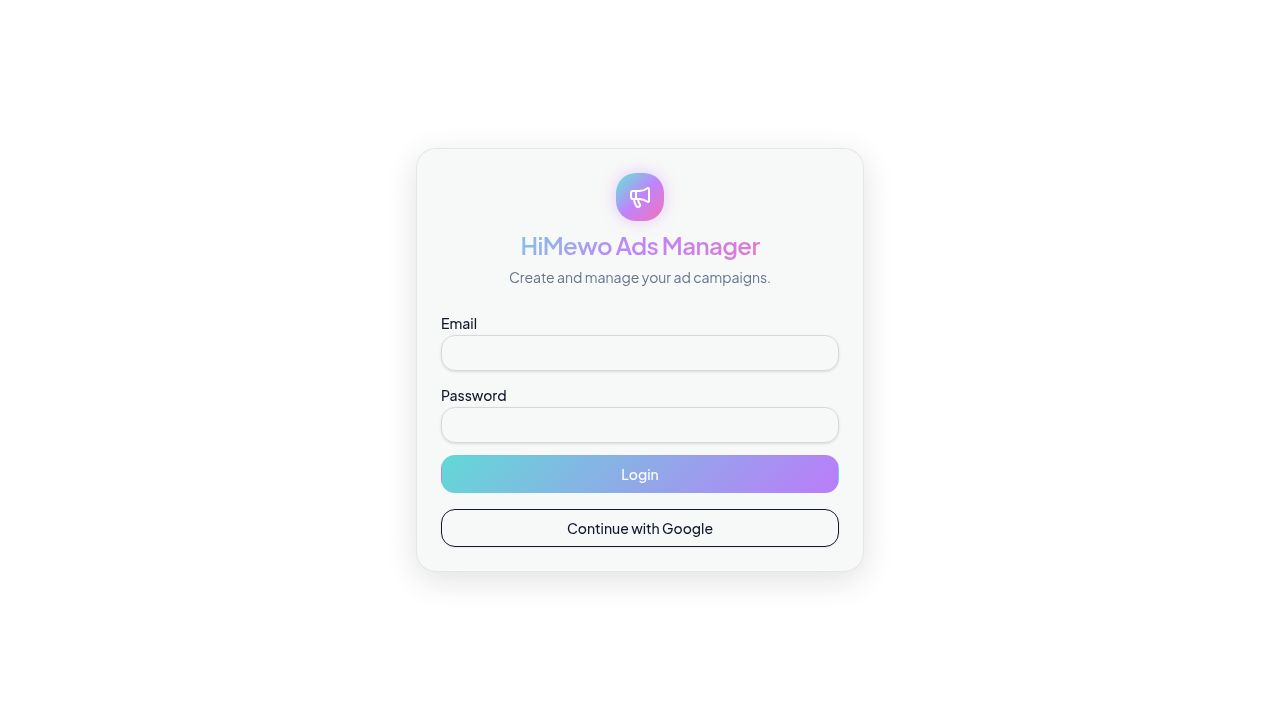
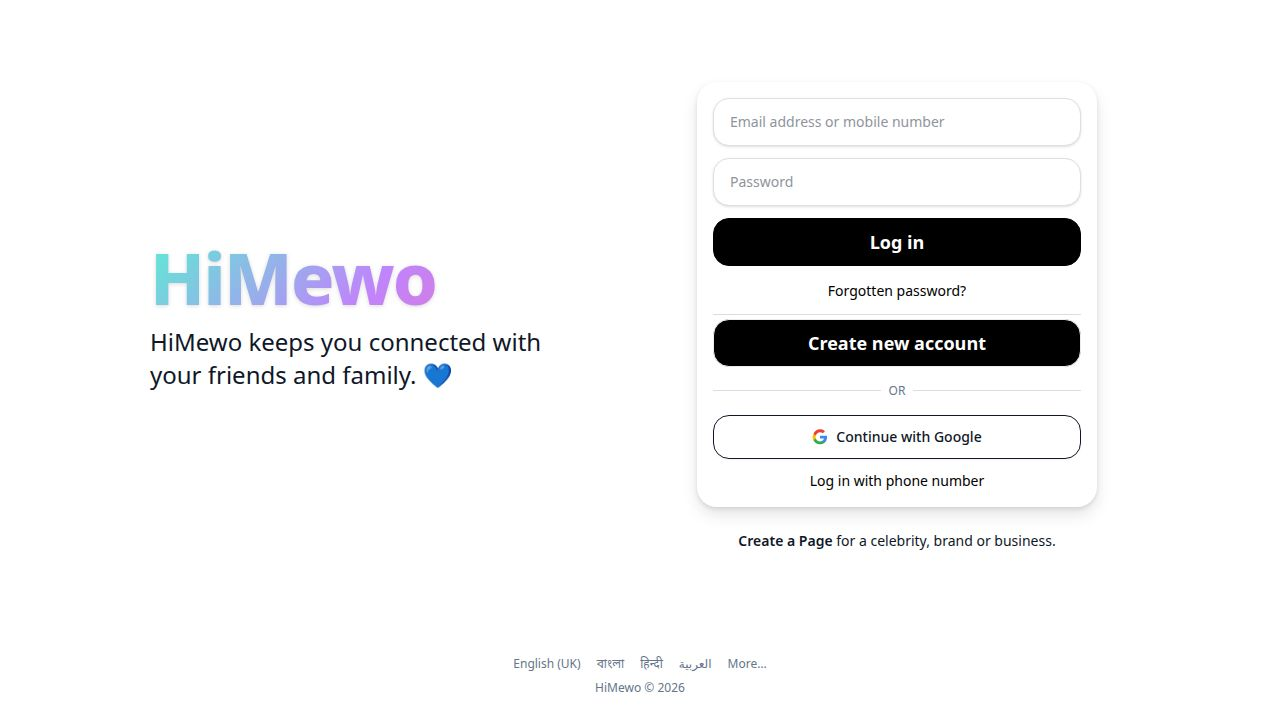
Update from Replit

diff --git a/artifacts/web/src/components/post-card.tsx b/artifacts/web/src/components/post-card.tsx
@@ -1,4 +1,4 @@
-import { useState } from "react";
+import { useEffect, useState } from "react";
 import { avatarSrc } from "@/lib/avatar";
 import { Link } from "wouter";
 import { formatDistanceToNow } from "date-fns";
@@ -87,6 +87,11 @@ export function PostCard({ post }: { post: Post }) {
   const [editing, setEditing] = useState(false);
   const [draft, setDraft] = useState(post.content);
   const [showBoost, setShowBoost] = useState(false);
+  // Optimistic reaction state — updates instantly on tap, server sync follows.
+  const [summary, setSummary] = useState(post.reactions);
+  useEffect(() => {
+    setSummary(post.reactions);
+  }, [post.reactions]);
 
   const isOwner = !!user && user.id === post.author.id;
   const canBoost = isOwner && post.privacy === "public";
@@ -119,10 +124,35 @@ export function PostCard({ post }: { post: Post }) {
   const savePending = saveItem.isPending || unsaveItem.isPending;
 
   const handleReaction = (type: ReactionType) => {
-    if (post.reactions.viewerReaction === type) {
-      removeReaction.mutate({ id: post.id }, { onSuccess: invalidate });
+    const prev = summary.viewerReaction as ReactionType | null | undefined;
+    if (prev === type) {
+      // Optimistically remove the reaction right away.
+      setSummary((s) => {
+        const byType = { ...s.byType };
+        if (byType[type] !== undefined) {
+          byType[type] = Math.max(0, (byType[type] ?? 1) - 1);
+          if (byType[type] === 0) delete byType[type];
+        }
+        return { ...s, total: Math.max(0, s.total - 1), byType, viewerReaction: null };
+      });
+      removeReaction.mutate({ id: post.id }, { onSettled: invalidate });
     } else {
-      setReaction.mutate({ id: post.id, data: { type } }, { onSuccess: invalidate });
+      // Optimistically set/switch the reaction right away.
+      setSummary((s) => {
+        const byType = { ...s.byType };
+        if (prev && byType[prev] !== undefined) {
+          byType[prev] = Math.max(0, (byType[prev] ?? 1) - 1);
+          if (byType[prev] === 0) delete byType[prev];
+        }
+        byType[type] = (byType[type] ?? 0) + 1;
+        return {
+          ...s,
+          total: prev ? s.total : s.total + 1,
+          byType,
+          viewerReaction: type,
+        };
+      });
+      setReaction.mutate({ id: post.id, data: { type } }, { onSettled: invalidate });
     }
   };
 
@@ -188,7 +218,7 @@ export function PostCard({ post }: { post: Post }) {
     }
   };
 
-  const viewerReaction = post.reactions.viewerReaction as ReactionType | null | undefined;
+  const viewerReaction = summary.viewerReaction as ReactionType | null | undefined;
   const meta = privacyMeta[post.privacy] ?? privacyMeta.public;
   const PrivacyIcon = meta.icon;
 
@@ -425,10 +455,10 @@ export function PostCard({ post }: { post: Post }) {
 
       <div className="flex justify-between items-center text-sm text-muted-foreground py-2 border-b border-border mb-1">
         <div className="flex items-center gap-1">
-          {post.reactionsEnabled && post.reactions.total > 0 && (
+          {post.reactionsEnabled && summary.total > 0 && (
             <>
               <div className="flex -space-x-1">
-                {Object.keys(post.reactions.byType).slice(0, 3).map((type) => {
+                {Object.keys(summary.byType).slice(0, 3).map((type) => {
                   const rType = type as ReactionType;
                   return (
                     <div key={type} className="w-5 h-5 rounded-full flex items-center justify-center bg-background border border-border text-[11px] leading-none">
@@ -437,7 +467,7 @@ export function PostCard({ post }: { post: Post }) {
                   );
                 })}
               </div>
-              <span className="ml-1">{post.reactions.total}</span>
+              <span className="ml-1">{summary.total}</span>
             </>
           )}
         </div>

diff --git a/artifacts/web/src/components/layout/main-layout.tsx b/artifacts/web/src/components/layout/main-layout.tsx
@@ -111,16 +111,16 @@ export function MainLayout({ children, rightSidebar }: { children: ReactNode; ri
       {/* Top Navbar */}
       <header className="sticky top-0 z-50 w-full aurora-glass-header">
         <div className="container mx-auto px-4 h-16 flex items-center justify-between">
-          <div className="flex items-center gap-4">
-            <Link href="/" className="text-2xl font-extrabold tracking-tight aurora-gradient-text">
-              HiMewo
-            </Link>
+          <div className="flex items-center gap-3">
             <MobileMenuButton
               navItems={navItems}
               shortcutItems={shortcutItems}
               user={user}
               onSignOut={signOut}
             />
+            <Link href="/" className="text-2xl font-extrabold tracking-tight aurora-gradient-text">
+              HiMewo
+            </Link>
 
             <form onSubmit={handleSearch} className="hidden md:flex relative">
               <Search className="absolute left-3 top-1/2 -translate-y-1/2 w-4 h-4 text-muted-foreground" />
@@ -168,7 +168,7 @@ export function MainLayout({ children, rightSidebar }: { children: ReactNode; ri
                 ) : null}
               </Button>
             </Link>
-            <Link href="/me">
+            <Link href="/me" className="hidden md:block">
               <img src={avatarSrc(user?.avatarUrl)} alt="" className="w-10 h-10 rounded-full border border-border cursor-pointer object-cover hover:ring-2 ring-primary transition-all" />
             </Link>
           </div>

diff --git a/artifacts/mobile/components/ReactionBar.tsx b/artifacts/mobile/components/ReactionBar.tsx
@@ -1,5 +1,6 @@
 import { useRef, useState } from "react";
 import {
+  Dimensions,
   Modal,
   Pressable,
   Text,
@@ -37,7 +38,11 @@ export function ReactionBar({
     const node = btnRef.current && findNodeHandle(btnRef.current);
     if (node) {
       UIManager.measureInWindow(node, (x, y) => {
-        setAnchor({ x: Math.max(12, x - 8), y: Math.max(80, y - 64) });
+        // Clamp so the picker never spills off either screen edge.
+        const screenW = Dimensions.get("window").width;
+        const pickerW = reactionOrder.length * 38 + 20;
+        const left = Math.min(Math.max(12, x - 8), Math.max(12, screenW - pickerW - 12));
+        setAnchor({ x: left, y: Math.max(80, y - 64) });
         setOpen(true);
       });
     } else {

diff --git a/artifacts/web/src/index.css b/artifacts/web/src/index.css
@@ -178,9 +178,8 @@
   }
 
   .aurora-glass-header {
-    background: var(--ap-header);
-    backdrop-filter: blur(24px);
-    -webkit-backdrop-filter: blur(24px);
+    /* Flat solid background — white in light mode, black in dark mode. */
+    background: hsl(var(--background));
     border-bottom: 1px solid var(--ap-border);
   }
 

diff --git a/artifacts/web/src/components/reaction-picker.tsx b/artifacts/web/src/components/reaction-picker.tsx
@@ -112,8 +112,10 @@ export function ReactionControl({ viewerReaction, onReact, count, size = "defaul
       {showPicker && (
         // Wrapper spans down to the button (pb-3) so there is NO empty gap between
         // the button and the pill — keeps hover continuous and clicks reliable.
+        // Anchored to the button's left edge (not centered) so the pill never
+        // spills off-screen when the Like button sits near the screen edge.
         <div
-          className="absolute bottom-full left-1/2 -translate-x-1/2 pb-3 z-40"
+          className="absolute bottom-full left-0 pb-3 z-40"
           onMouseEnter={open}
           onMouseLeave={close}
         >

diff --git a/artifacts/mobile/app/(tabs)/index.tsx b/artifacts/mobile/app/(tabs)/index.tsx
@@ -109,13 +109,13 @@ export default function HomeScreen() {
     <SafeAreaView style={{ flex: 1, backgroundColor: c.background }} edges={["top"]}>
       <View style={[styles.header, { backgroundColor: c.card, borderBottomColor: c.border }]}>
         <View style={{ flexDirection: "row", alignItems: "center", gap: 10 }}>
-          <Text style={[styles.brand, { color: c.primary }]}>HiMewo</Text>
           <Pressable
             style={[styles.iconBtn, { backgroundColor: c.secondary }]}
             onPress={() => router.push("/menu" as never)}
           >
             <Ionicons name="menu" size={20} color={c.foreground} />
           </Pressable>
+          <Text style={[styles.brand, { color: c.primary }]}>HiMewo</Text>
         </View>
         <View style={{ flexDirection: "row", gap: 8 }}>
           <Pressable